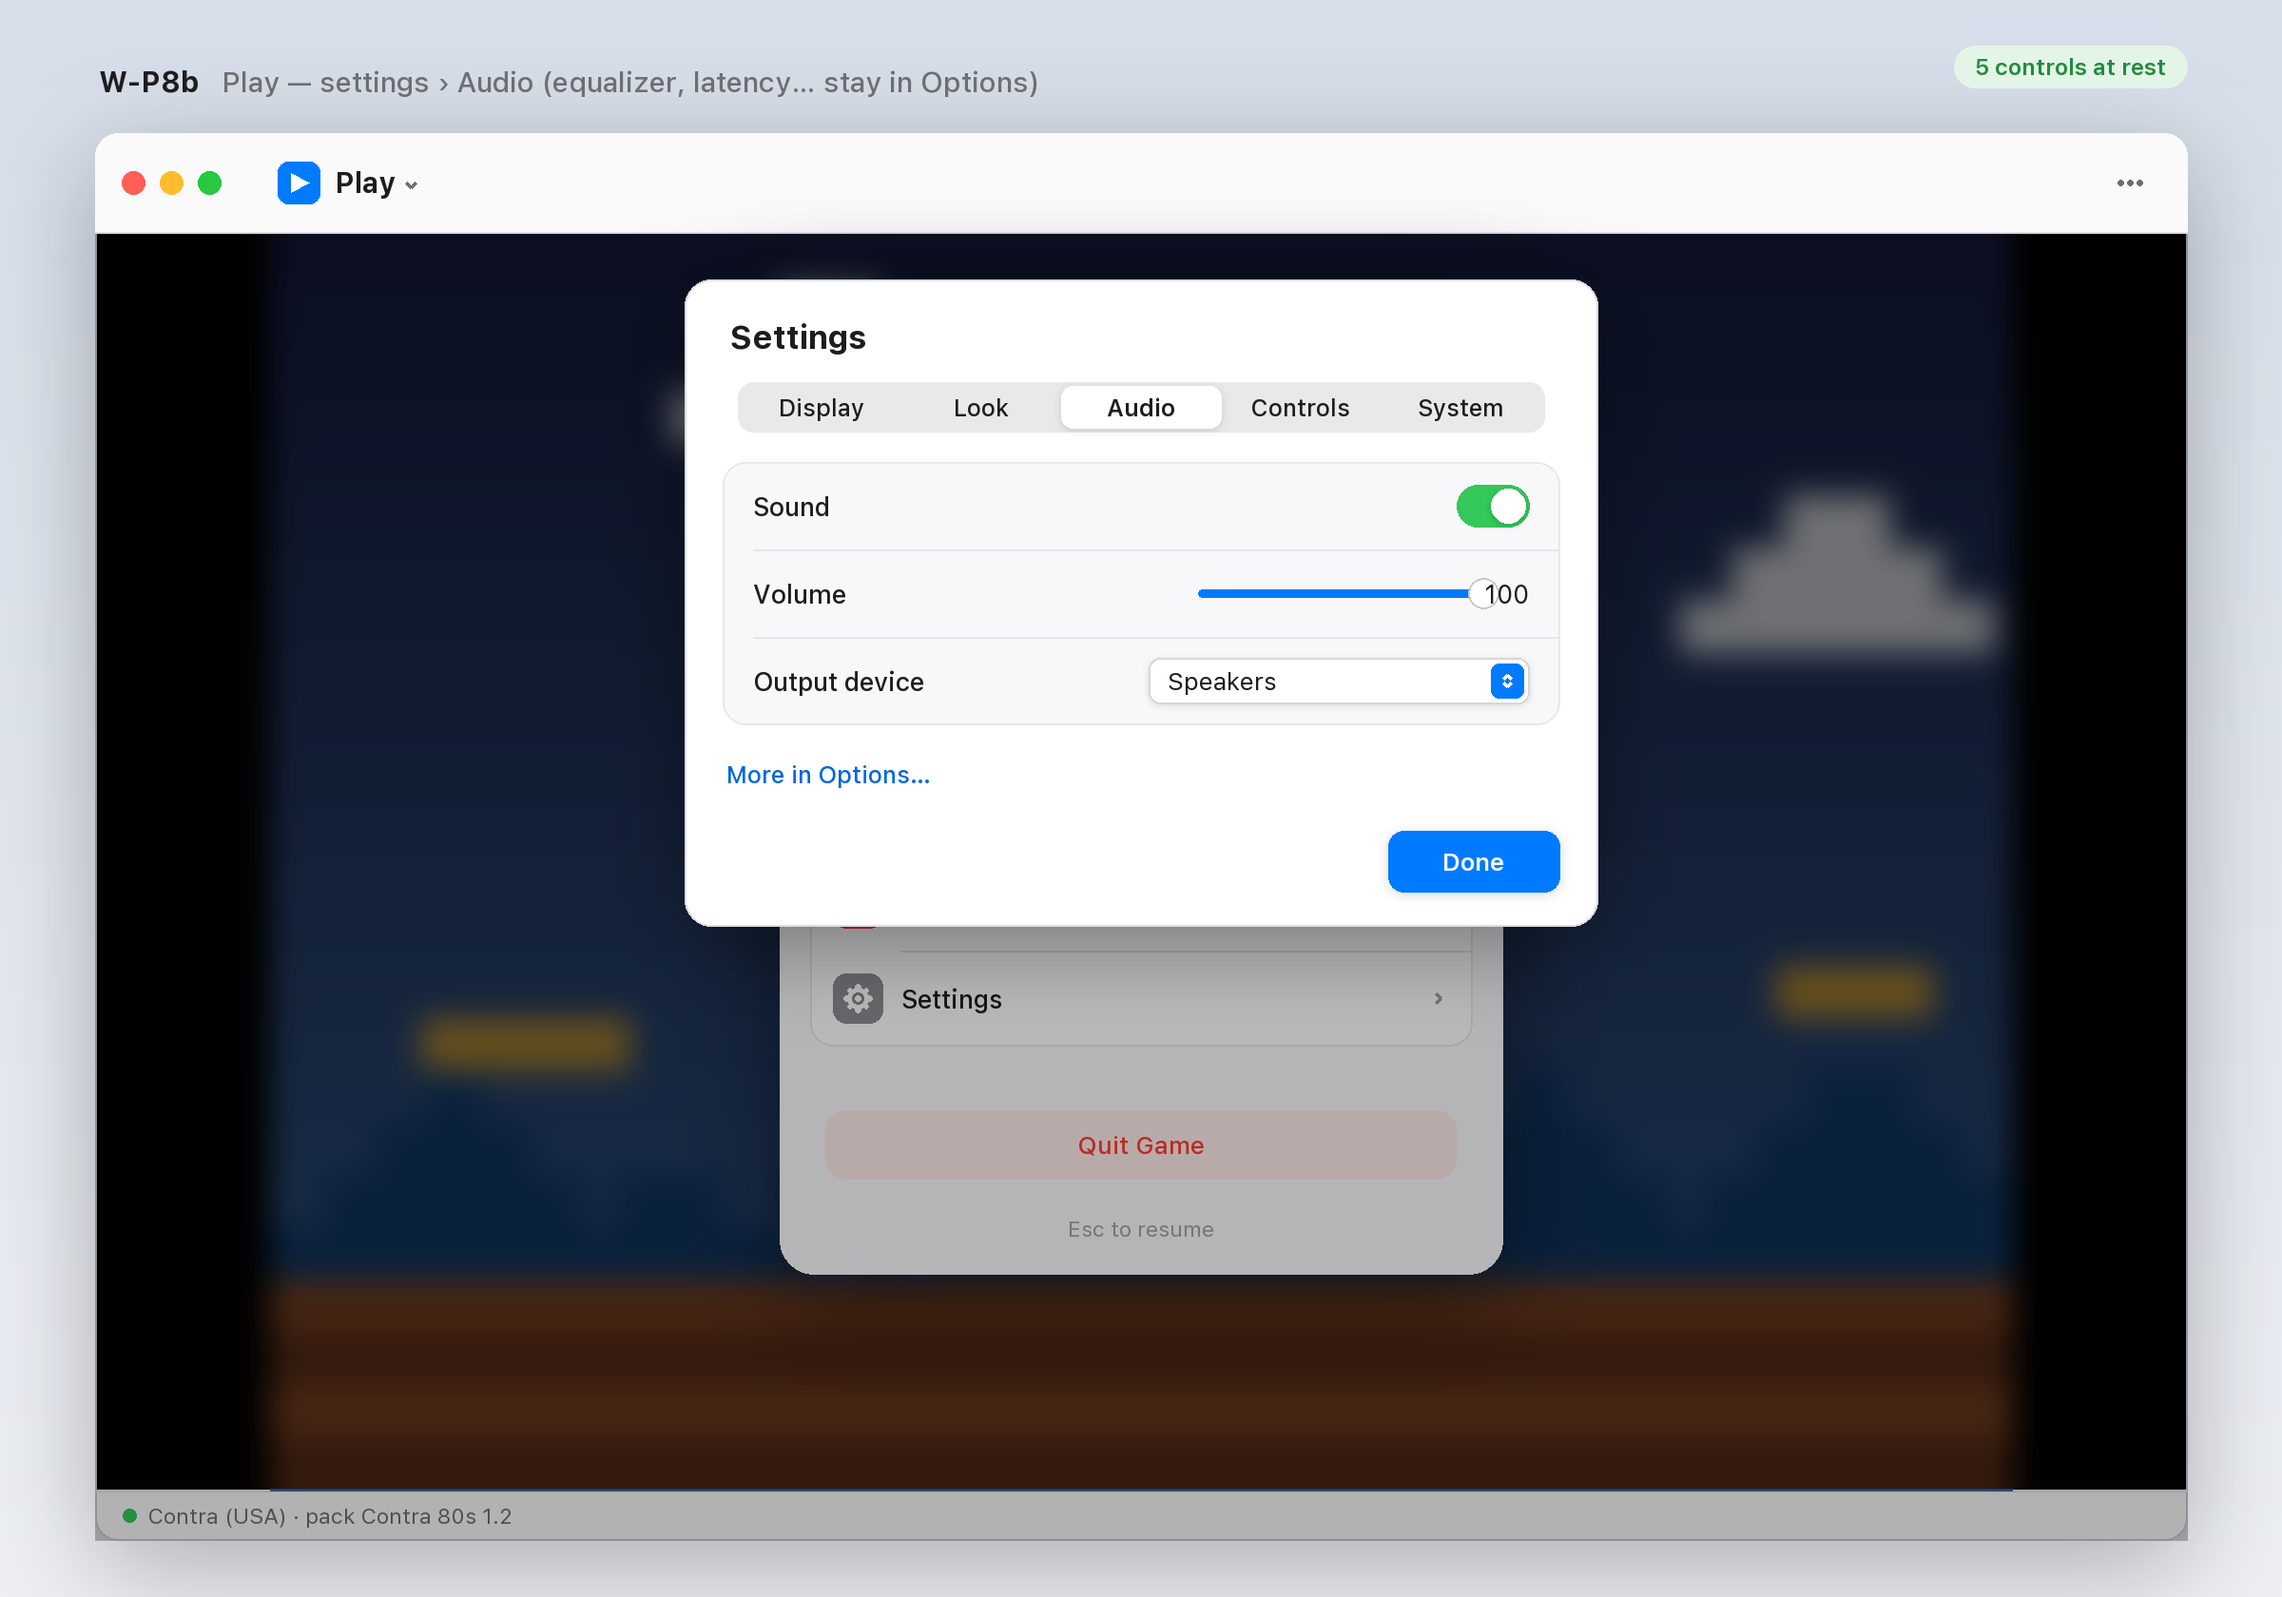
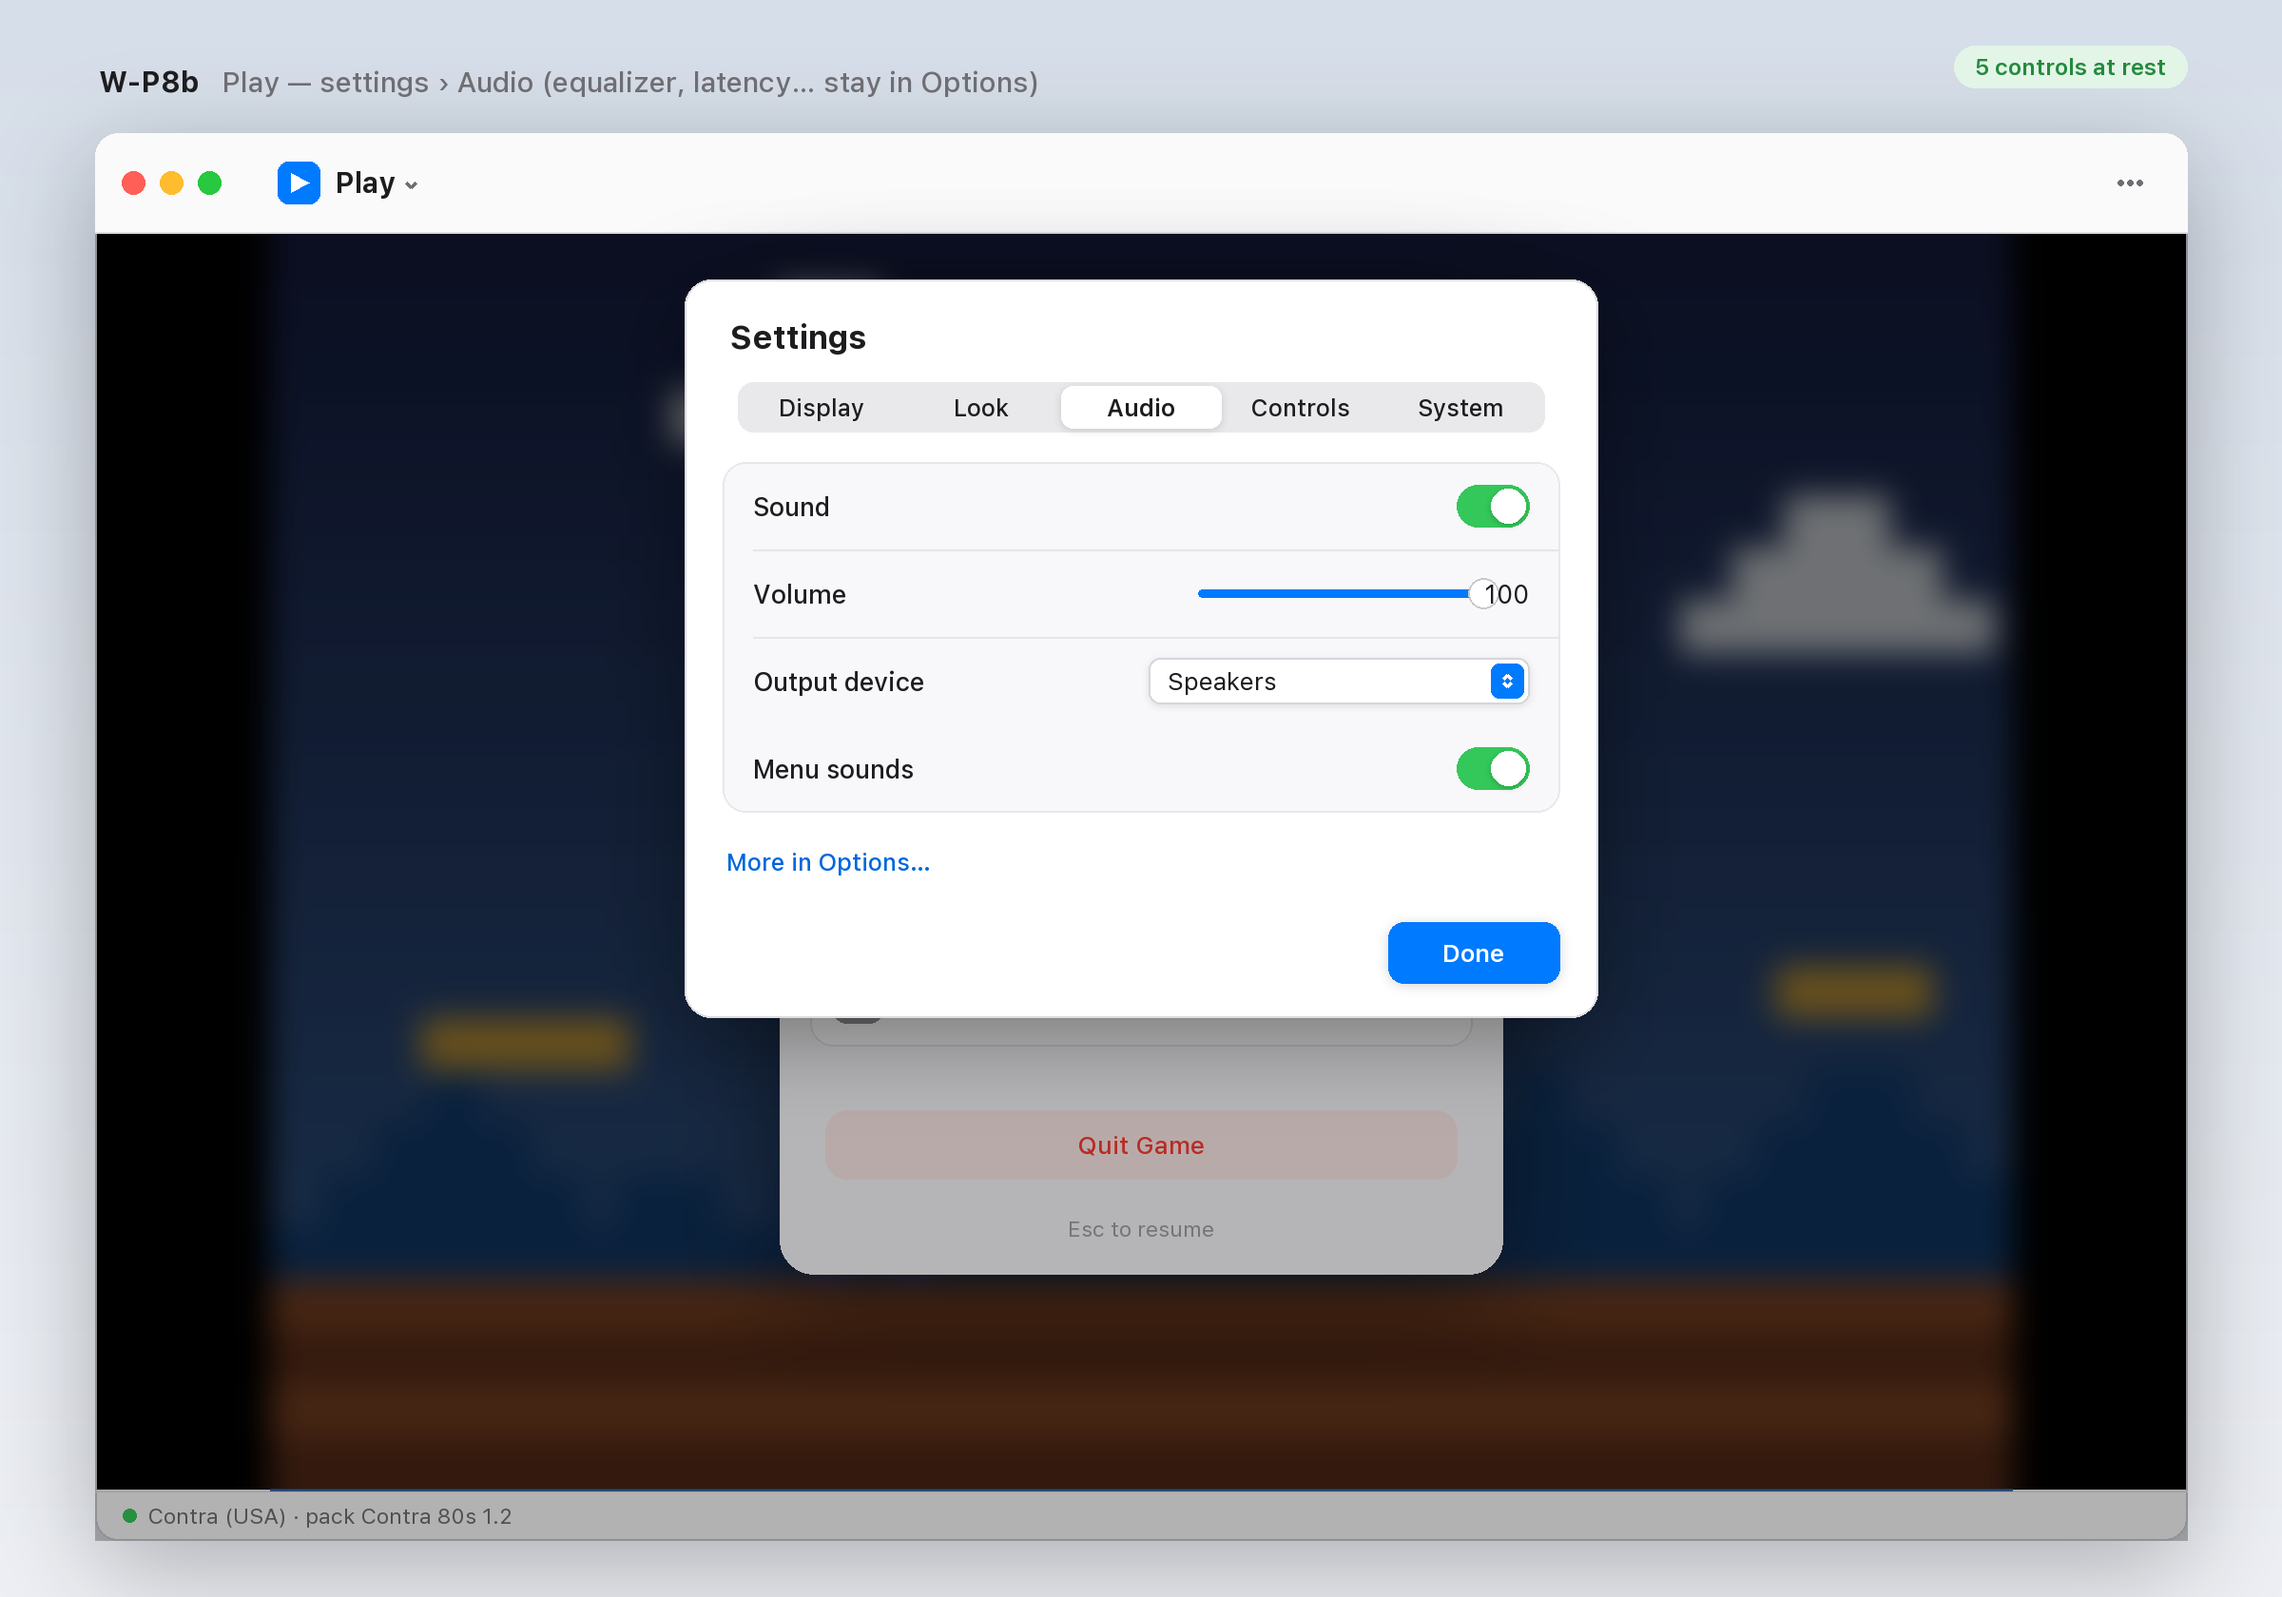
Wireframe W-P8b shows the four-row Audio sheet (388 px) the render test asserts (Refs #1105)

Changed region(s): [[0.2812, 0.4643, 0.7188, 0.681], [0.3125, 0.4643, 0.4062, 0.4952]]

diff --git a/scripts/render_gui_wireframes.py b/scripts/render_gui_wireframes.py
@@ -811,7 +811,7 @@ def w_p6():
         yy = g[1] + i * 46
         c.text(g[0] + 16, yy + 23, n, 13.5, 500, TEXT, "lm")
         c.toggle(g[2] - 54, yy + 12, True, True)
-        if i < 2:
+        if i < n - 1:
             c.line([(g[0] + 16, yy + 46), (g[2], yy + 46)], SEP)
     c.text(x0 + 26, g[3] + 16, "The switches apply to this game only.", 12.5, 400, TEXT2, "lm")
     d = 134
@@ -902,9 +902,10 @@ def essentials_sheet(c, tab, rows):
     """W-P8's Audio and Controls: Display's pattern - three rows in one inset
     list, "More in Options…" where Display has its hint (it expands to that tab's
     classic page, as Look's Pixels item does), then Done."""
-    b = settings_sheet(c, tab, 340)
+    n = len(rows)
+    b = settings_sheet(c, tab, 340 if n == 3 else 388)
     x0, y0, x1, y1 = b
-    g = (x0 + 20, y0 + 96, x1 - 20, y0 + 96 + 3 * 46)
+    g = (x0 + 20, y0 + 96, x1 - 20, y0 + 96 + n * 46)
     c.rrect(g, 12, fill=(248, 248, 250), outline=(232, 232, 236))
     for i, (name, kind, value) in enumerate(rows):
         yy = g[1] + i * 46
@@ -927,7 +928,7 @@ def essentials_sheet(c, tab, rows):
 def w_p8b():
     c = base("play", "Contra (USA) · pack Contra 80s 1.2", (52, 199, 89))
     pause_panel(c)
-    essentials_sheet(c, 2, [("Sound", "switch", None), ("Volume", "slider", (1.0, "100")), ("Output device", "popup", "Speakers")])
+    essentials_sheet(c, 2, [("Sound", "switch", None), ("Volume", "slider", (1.0, "100")), ("Output device", "popup", "Speakers"), ("Menu sounds", "switch", None)])
     c.caption("W-P8b", "Play — settings › Audio (equalizer, latency… stay in Options)", 5)
     return c
 

diff --git a/docs/roadmap/PRD-mesence-enhancement-ecosystem.md b/docs/roadmap/PRD-mesence-enhancement-ecosystem.md
@@ -3235,15 +3235,16 @@ classic pages)**
  │  Sound            [x]            │   │  Controllers   2 controllers connected │
  │  Volume     ──────●──── 100      │   │  Rumble        ───●─────────  5        │
  │  Output device [Speakers   ▾]    │   │  Stick deadzone ──●────────  2         │
+ │  Menu sounds      [x]            │   │                                        │
  │  More in Options…                │   │  More in Options…                      │
 ```
 
-Audio and Controls follow Display's pattern exactly: one inset list of three
-46 px rows in the same 340 px sheet, no scrollbars, no sub-tabs. They used to
+Audio and Controls follow Display's pattern exactly: one inset list of
+46 px rows (Controls three in the 340 px sheet, Audio four in a 388 px sheet), no scrollbars, no sub-tabs. They used to
 embed the whole classic option pages (General/Equalizer/Advanced and
 General/Display/Test sub-tabs, a per-console button row, two scrollbars),
 which broke rule 2. **Audio** is Sound (the Enable Audio switch), Volume
-(0–100) and Output device; equalizer, reverb, crossfeed, latency and sample
+(0–100), Output device and Menu sounds (#1105); equalizer, reverb, crossfeed, latency and sample
 rate stay in Options. **Controls** is what is console-independent: which pads
 are connected, Rumble strength (0 is off) and Stick deadzone; per-console
 controller types and button mapping stay in Options. Every row is bound to the
@@ -3252,7 +3253,7 @@ device that is not enumerated now, a volume) shows as the current item and
 opening the tab never rewrites it. The hint's line carries **More in
 Options…**, which expands to that tab's classic page exactly as Look's
 *More in Options…* does (Display keeps the hint, as it has nothing to expand
-to). Elements: tab strip, 3 rows, More in Options…, Done = 6. ✔
+to). Elements: tab strip, 3 rows (Audio 4), More in Options…, Done = 6 (Audio 7). ✔
 
 **W-P9 — A pack installs while the game starts (a HUD pill, not a dialog)**
 
